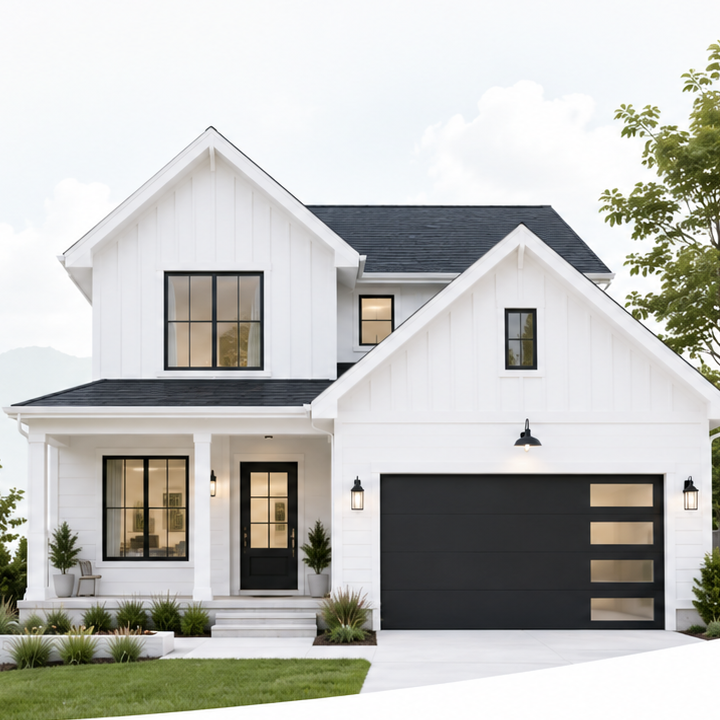
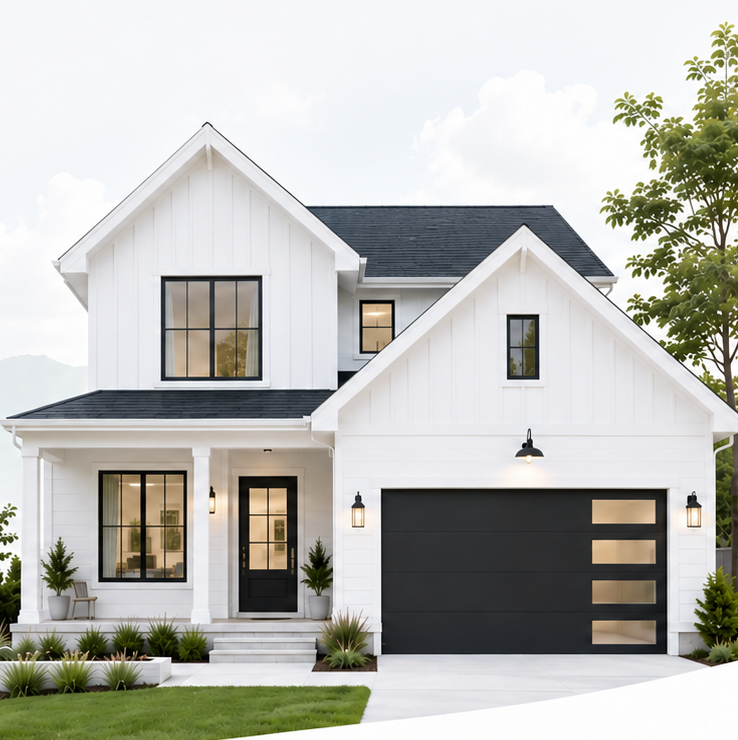
update the look of the website

diff --git a/assets/css/style.css b/assets/css/style.css
@@ -1241,3 +1241,58 @@ html[dir="rtl"] .hero-ctas{justify-content:flex-start}
 html[dir="rtl"] .benefits{justify-content:flex-start}
 @media (max-width:1400px){.container{width:min(1380px,calc(100% - 40px))}.logo{font-size:24px}.main-nav{gap:16px}.nav-link{font-size:16px}.hero h1{font-size:clamp(54px,4.8vw,76px)}.hero-art{min-height:530px}.hero-art img{width:min(100%,680px)}}
 @media (max-width:1100px){.nav-card{padding:18px 22px;flex-wrap:wrap;justify-content:center}.nav{height:auto}.main-nav{order:3;width:100%;justify-content:center;padding-bottom:6px}.header-actions{margin-left:0;width:auto}.hero-grid{grid-template-columns:1fr;gap:24px}.hero-copy{padding-top:8px}.hero-art{min-height:420px}.hero-art img{width:min(100%,620px)}}
+
+
+/* === Final polished approved style overrides === */
+:root{--green:#3AA348;--green-dark:#2f9138;--ink:#13203b;--soft-bg:#f5f6f8;--hero-bg:#f4f5f7;}
+body{background:linear-gradient(180deg,#f3f5f7 0%,#f7f8fa 46%,#f3f5f7 100%);} 
+.container{width:min(1650px,calc(100% - 40px));}
+.header{padding:14px 0 0;background:transparent;border:0;position:sticky;top:0;z-index:40;backdrop-filter:none}
+.nav-card{min-height:112px;padding:0 36px;border-radius:30px;background:rgba(255,255,255,.97);border:1px solid rgba(225,232,239,.9);box-shadow:0 14px 36px rgba(15,23,42,.06)}
+.nav{display:flex;align-items:center;justify-content:space-between;gap:32px}
+.logo{display:flex;align-items:center;gap:18px;text-decoration:none;flex:0 0 auto;color:var(--ink)}
+.logo-icon{width:58px;height:58px;display:block;filter:drop-shadow(0 4px 8px rgba(58,163,72,.12))}
+.brand-text{font-size:31px;font-weight:900;line-height:1;letter-spacing:-.05em;color:var(--ink)}
+.main-nav{display:flex;align-items:center;justify-content:center;gap:52px;flex:1 1 auto}
+.nav-link{position:relative;padding:8px 0;color:var(--ink);text-decoration:none;font-size:22px;font-weight:500;letter-spacing:-.025em}
+.nav-link.active,.nav-link:hover{color:var(--green)}
+.nav-link.active::after{content:'';position:absolute;left:0;right:0;bottom:-14px;height:4px;border-radius:999px;background:var(--green)}
+.header-actions{display:flex;align-items:center;gap:16px;flex:0 0 auto}
+.language-select{display:none !important}
+.donation-header-btn{height:76px;padding:0 32px;border-radius:18px;background:linear-gradient(180deg,#3ba546 0%,#379b41 100%);border:1px solid rgba(46,137,54,.35);color:#fff;display:inline-flex;align-items:center;justify-content:center;gap:14px;font-size:22px;font-weight:800;text-decoration:none;box-shadow:0 10px 22px rgba(58,163,72,.18)}
+.donation-header-btn img{width:30px;height:30px;display:block}
+.donation-header-btn:hover{transform:translateY(-1px);box-shadow:0 14px 28px rgba(58,163,72,.22)}
+.hero{padding:18px 0 16px;overflow:hidden}
+.hero-grid{display:grid;grid-template-columns:minmax(0,1fr) minmax(680px,1.02fr);align-items:center;gap:20px;min-height:760px}
+.hero-copy{padding:34px 0 28px;max-width:760px}
+.hero h1{margin:0 0 28px;color:var(--ink);font-size:clamp(68px,5.2vw,83px);line-height:1.08;letter-spacing:-.078em;font-weight:900}
+.hero h1 span{color:var(--green)}
+.hero .lead{max-width:660px;margin:0;color:#5a667b;font-size:26px;line-height:1.58;font-weight:450;letter-spacing:-.02em}
+.hero-ctas{display:flex;align-items:center;gap:36px;flex-wrap:wrap;margin-top:52px}
+.cta-primary{height:82px;padding:0 32px;border-radius:18px;background:linear-gradient(180deg,#3ba546 0%,#379b41 100%);color:#fff;display:inline-flex;align-items:center;gap:14px;text-decoration:none;font-size:22px;font-weight:800;box-shadow:0 12px 25px rgba(58,163,72,.16)}
+.cta-primary img{width:28px;height:28px;display:block}
+.cta-primary:hover{transform:translateY(-1px)}
+.cta-secondary{display:inline-flex;align-items:center;gap:12px;height:auto;padding:0;color:var(--green);text-decoration:none;font-size:22px;font-weight:700}
+.cta-secondary::after{display:none !important;content:none !important}
+.cta-secondary img{width:24px;height:24px;display:block}
+.benefits{display:flex;align-items:center;gap:32px;flex-wrap:nowrap;margin-top:74px}
+.benefit{display:flex;align-items:center;gap:18px;position:relative;padding-right:38px;min-width:auto}
+.benefit:not(:last-child)::after{content:'';position:absolute;right:0;top:50%;transform:translateY(-50%);width:1px;height:42px;background:#dfe5ea}
+.bicon{width:52px;height:52px;border-radius:50%;background:#eef7ec;display:grid;place-items:center;flex:0 0 52px;box-shadow:none}
+.bicon img{width:24px;height:24px;display:block}
+.benefit strong{display:block;color:#566275;font-size:15px;font-weight:500;letter-spacing:-.02em;white-space:nowrap}
+.hero-art{display:flex;align-items:flex-end;justify-content:flex-end;min-height:760px;position:relative;background:radial-gradient(circle at 58% 40%,rgba(255,255,255,.35) 0%,rgba(255,255,255,.08) 38%,rgba(255,255,255,0) 62%)}
+.hero-art::before{content:'';position:absolute;inset:0;background:linear-gradient(180deg,#f4f5f7 0%,#f4f5f7 100%);z-index:0}
+.hero-art img{position:relative;z-index:1;width:min(100%,905px);height:auto;display:block;filter:none;mix-blend-mode:normal;-webkit-mask-image:none;mask-image:none}
+.stats-band,.panel,.comparison,.monthly-breakdown,.site-footer{box-shadow:0 12px 36px rgba(15,23,42,.045)}
+html[dir="rtl"] .nav{direction:rtl}
+html[dir="rtl"] .main-nav{direction:rtl}
+html[dir="rtl"] .header-actions{margin-right:auto;margin-left:0}
+html[dir="rtl"] .hero-grid{grid-template-columns:minmax(680px,1.02fr) minmax(0,1fr)}
+html[dir="rtl"] .hero-copy{text-align:right;margin-left:0;margin-right:auto}
+html[dir="rtl"] .hero-ctas,html[dir="rtl"] .benefits{justify-content:flex-start}
+html[dir="rtl"] .benefit{padding-left:38px;padding-right:0}
+html[dir="rtl"] .benefit:not(:last-child)::after{left:0;right:auto}
+html[dir="rtl"] .donation-header-btn{flex-direction:row-reverse}
+@media (max-width:1500px){.container{width:min(1480px,calc(100% - 32px))}.brand-text{font-size:28px}.main-nav{gap:38px}.nav-link{font-size:19px}.hero-grid{grid-template-columns:minmax(0,1fr) minmax(560px,.98fr)}.hero h1{font-size:clamp(58px,5vw,72px)}.hero .lead{font-size:22px}.hero-art,.hero-grid{min-height:680px}.donation-header-btn{height:68px;font-size:20px}}
+@media (max-width:1150px){.main-nav{gap:24px}.nav-link{font-size:17px}.brand-text{font-size:24px}.logo-icon{width:50px;height:50px}.hero-grid{grid-template-columns:1fr;min-height:auto;gap:12px}.hero-copy{max-width:none}.hero h1{font-size:clamp(50px,6vw,66px)}.hero-art{min-height:420px;justify-content:center}.hero-art img{width:min(100%,720px)}.benefits{gap:18px;flex-wrap:wrap}.benefit{padding-right:0}.benefit::after{display:none}.donation-header-btn{height:62px;padding:0 24px;font-size:18px}}

diff --git a/index.html b/index.html
@@ -12,8 +12,8 @@
 <header class="header" id="top">
   <div class="container">
     <div class="nav nav-card">
-      <a class="logo" href="#top"><img class="icon-img logo-icon" src="assets/icons/logo-house.svg" alt="logo house"><span class="brand-text">Mortgage Planner</span></a>
-      <nav class="main-nav" aria-label="Primary">
+      <a class="logo" href="#top"><img class="icon-img logo-icon" src="assets/icons/logo-house.svg" alt="Mortgage Planner logo"><span class="brand-text">Mortgage Planner</span></a>
+      <nav class="main-nav" aria-label="Primary navigation">
         <a class="nav-link active" id="navHome" href="#top">Home</a>
         <a class="nav-link" id="navAbout" href="#calculatorSection">About</a>
         <a class="nav-link" id="navCalculator" href="#calculatorSection">Calculator</a>
@@ -22,16 +22,8 @@
         <a class="nav-link" id="navContact" href="#footerSection">Contact</a>
       </nav>
       <div class="header-actions">
-        <select id="languageSelect" class="language-select" aria-label="Language">
-          <option value="en">English</option>
-          <option value="fa">دری</option>
-          <option value="hi">हिन्दी</option>
-          <option value="ur">اردو</option>
-          <option value="zh">中文</option>
-          <option value="es">Español</option>
-        </select>
         <a class="donation-header-btn" id="headerDonationButton" href="https://buy.stripe.com/dRm00j0Dp30P5CSe8PgMw00" target="_blank" rel="noopener noreferrer">
-          <span class="donation-heart" aria-hidden="true">♡</span>
+          <img src="assets/icons/icon-heart-white.svg" alt="" aria-hidden="true">
           <span id="headerDonationText">Donation</span>
         </a>
       </div>
@@ -45,16 +37,16 @@
       <h1>Plan <span>smarter.</span><br>Pay off your mortgage sooner.</h1>
       <p class="lead">Powerful planning tools and clear insights to help you save money and achieve financial freedom.</p>
       <div class="hero-ctas">
-        <a class="cta-primary" id="ctaPrimary" href="#calculatorSection">Get Started</a>
-        <a class="cta-secondary" id="ctaSecondary" href="#calculatorSection">Learn How It Works</a>
+        <a class="cta-primary" id="ctaPrimary" href="#calculatorSection"><img src="assets/icons/icon-calc.svg" alt="" aria-hidden="true"><span>Get Started</span></a>
+        <a class="cta-secondary" id="ctaSecondary" href="#calculatorSection">Learn How It Works <img src="assets/icons/icon-arrow-green.svg" alt="" aria-hidden="true"></a>
       </div>
       <div class="benefits">
-        <div class="benefit"><div class="bicon"><img class="icon-img" src="assets/icons/stat-rate.svg" alt="payoff icon" width="20" height="20"></div><strong>See your payoff date</strong></div>
-        <div class="benefit"><div class="bicon"><img class="icon-img" src="assets/icons/hero-check.svg" alt="savings icon" width="20" height="20"></div><strong>Save thousands</strong></div>
-        <div class="benefit"><div class="bicon"><img class="icon-img" src="assets/icons/stat-frequency.svg" alt="track icon" width="20" height="20"></div><strong>Stay on track</strong></div>
+        <div class="benefit"><div class="bicon"><img class="icon-img" src="assets/icons/benefit-chart.svg" alt="" aria-hidden="true"></div><strong>See your payoff date</strong></div>
+        <div class="benefit"><div class="bicon"><img class="icon-img" src="assets/icons/benefit-dollar.svg" alt="" aria-hidden="true"></div><strong>Save thousands</strong></div>
+        <div class="benefit"><div class="bicon"><img class="icon-img" src="assets/icons/benefit-calendar.svg" alt="" aria-hidden="true"></div><strong>Stay on track</strong></div>
       </div>
     </div>
-    <div class="hero-art"><img alt="Modern house illustration" src="assets/images/hero-house.png"></div>
+    <div class="hero-art"><img alt="Modern house" src="assets/images/hero-house.png"></div>
   </div>
 </section>
 
